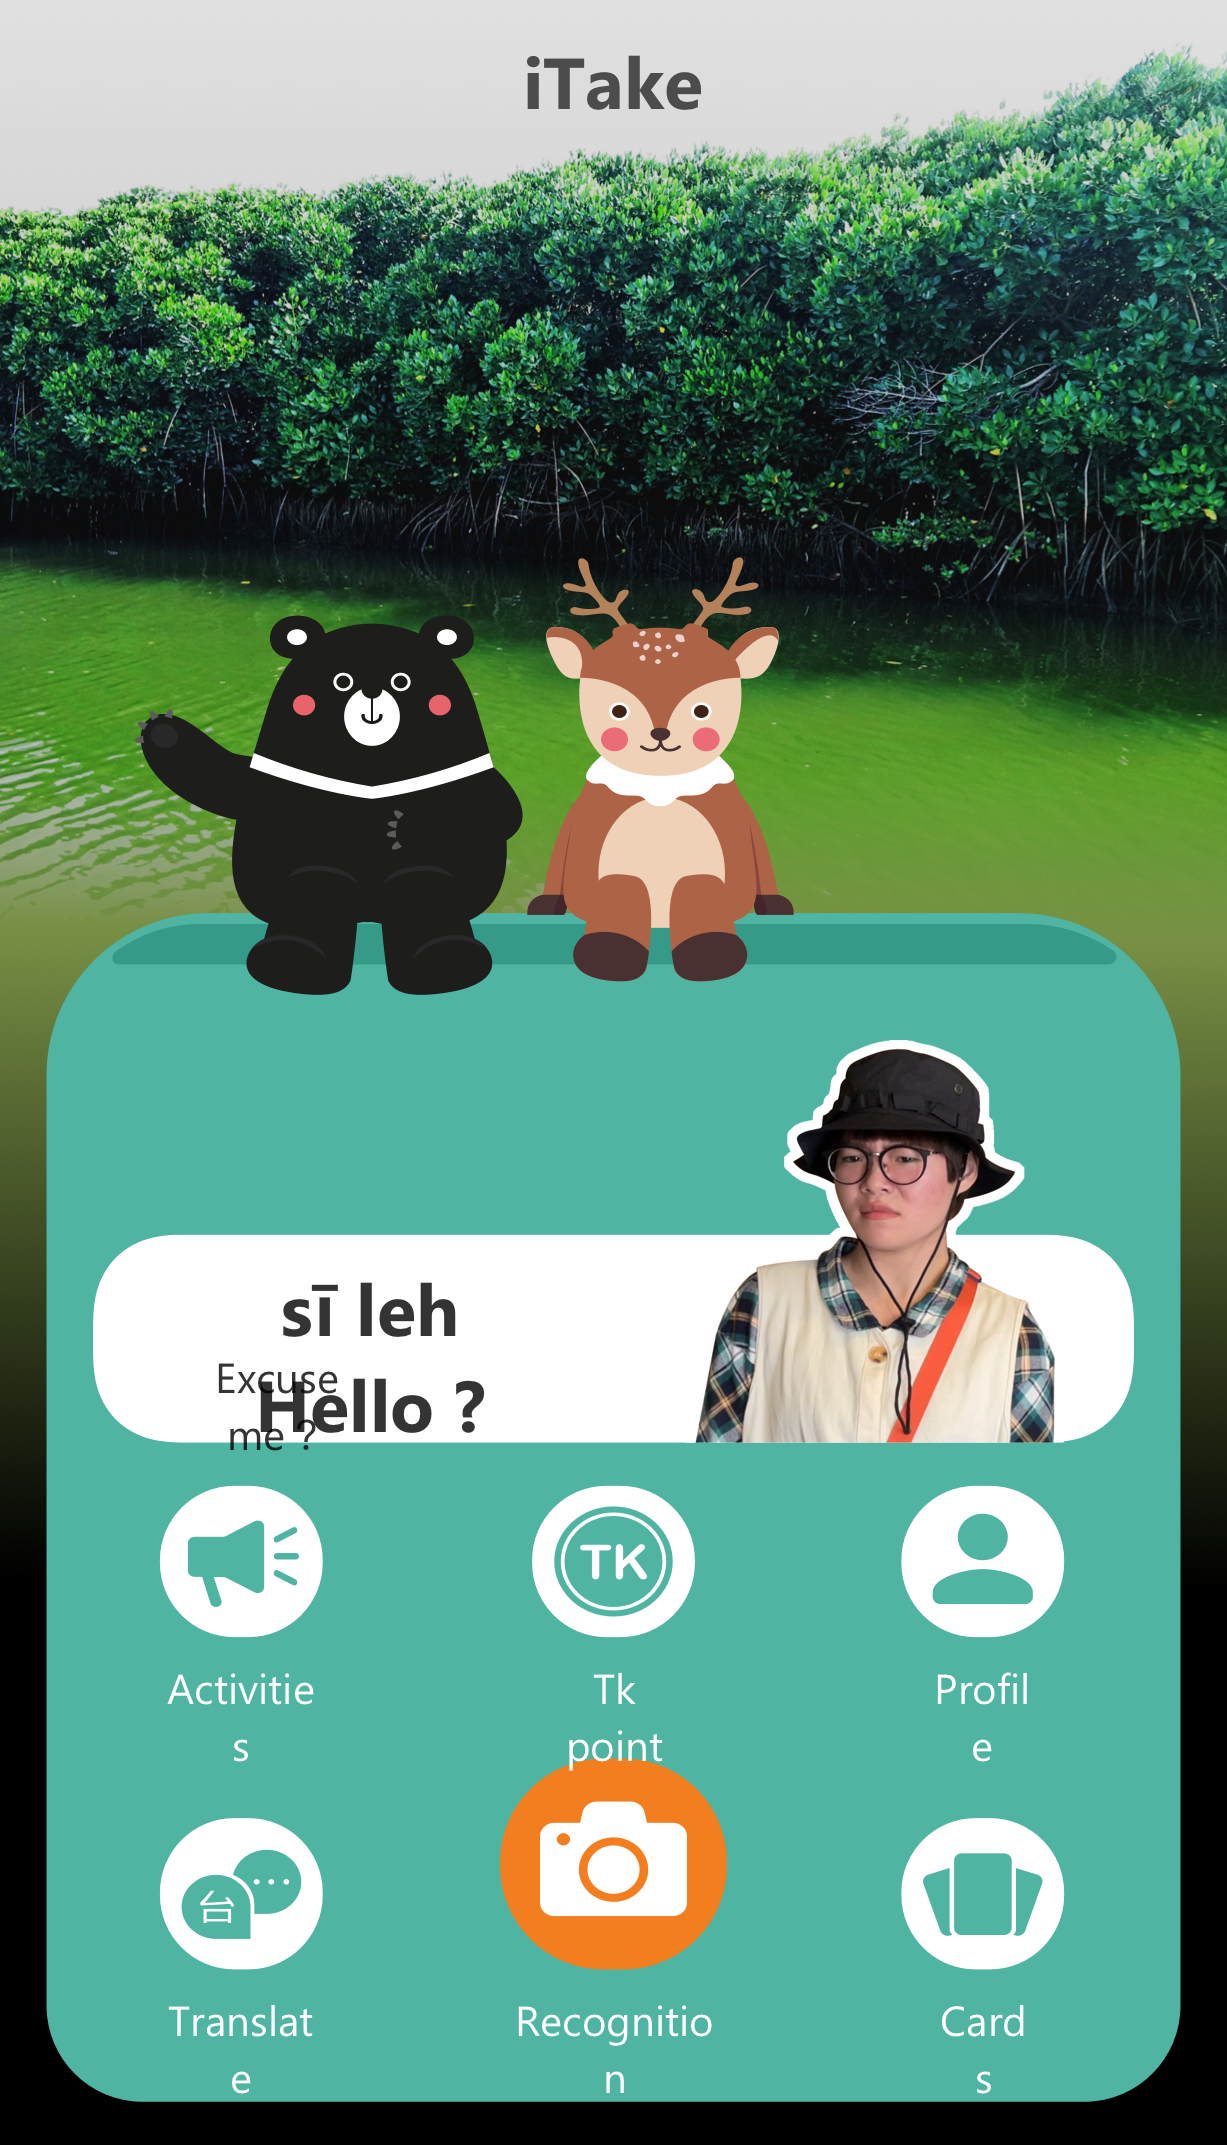
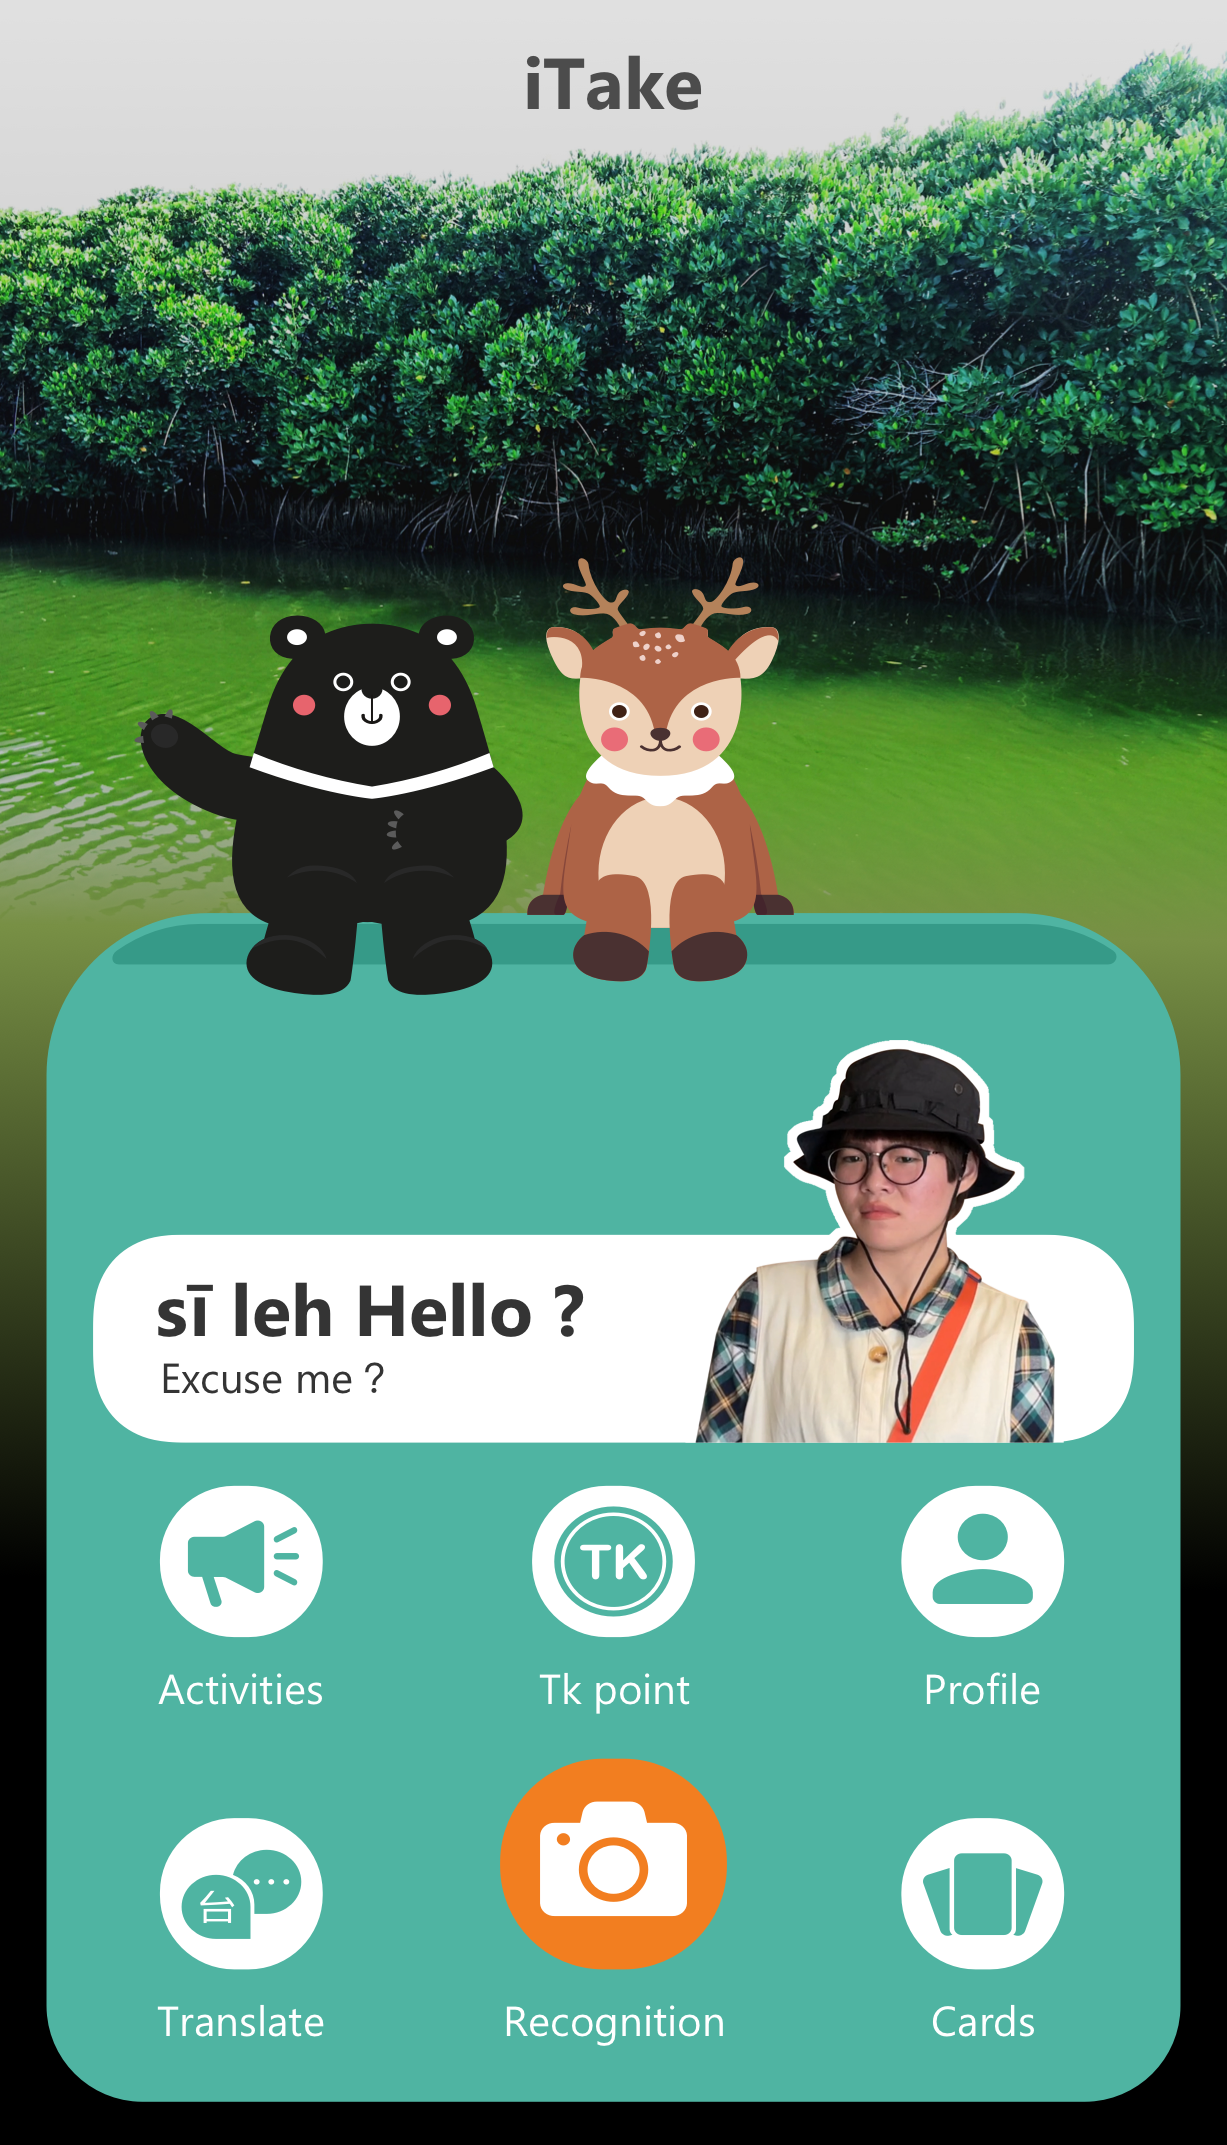
Add files via upload

diff --git a/css/style.css b/css/style.css
@@ -7,7 +7,8 @@ body{
 .testpic{
     border: 1px solid #fff;
     color: rgb(0, 0, 0);
-    background-image: url(../img/home2.png);
+    background-image: url(../img/home.png);
     width: 409px;
     height: 715px;
+    background-size: cover;
 }
